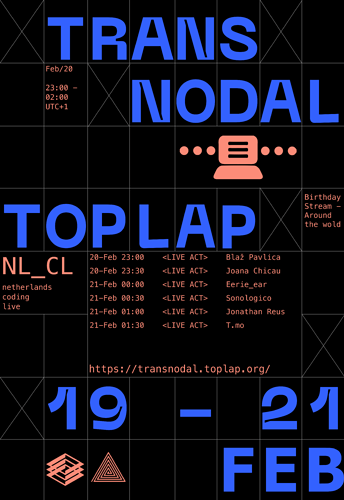
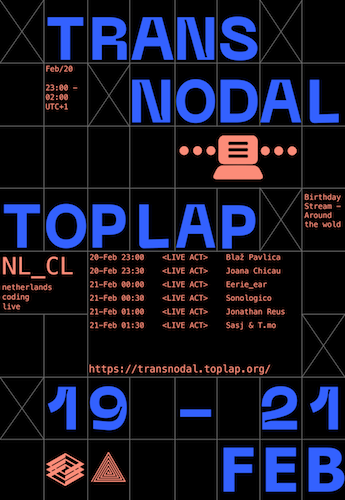
updated schedule and poster

diff --git a/index.html b/index.html
@@ -81,7 +81,15 @@ $(document).ready(function(){
 	       ["2021-02-20T22:15+01:00", "u-mano u-dito"]
 	   ]
 	  ],
-	  ["NL_CL (Netherlands Coding Live)", "", "2021-02-20T22:00Z", "2021-02-21T01:00Z"],
+		["NL_CL (Netherlands Coding Live)", "", "2021-02-20T22:00Z", "2021-02-21T01:00Z", [
+			["2021-02-20T22:00Z", "Blaž Pavlica"],
+			["2021-02-20T22:30Z", "Joana Chicau"],
+			["2021-02-20T23:00Z", "Eerie_ear"],
+			["2021-02-20T23:30Z", "Sonologico"],
+			["2021-02-21T00:00Z", "Jonathan Reus"],
+			["2021-02-21T00:30Z", "Sasj & T.mo"],
+		]
+	],
 	  ["New England", "", "2021-02-21T02:00Z", "2021-02-21T05:00Z",
 	   [
 	       ["2021-02-20T21:00-05:00", "Charlie Roberts + Gillian Smith"],
